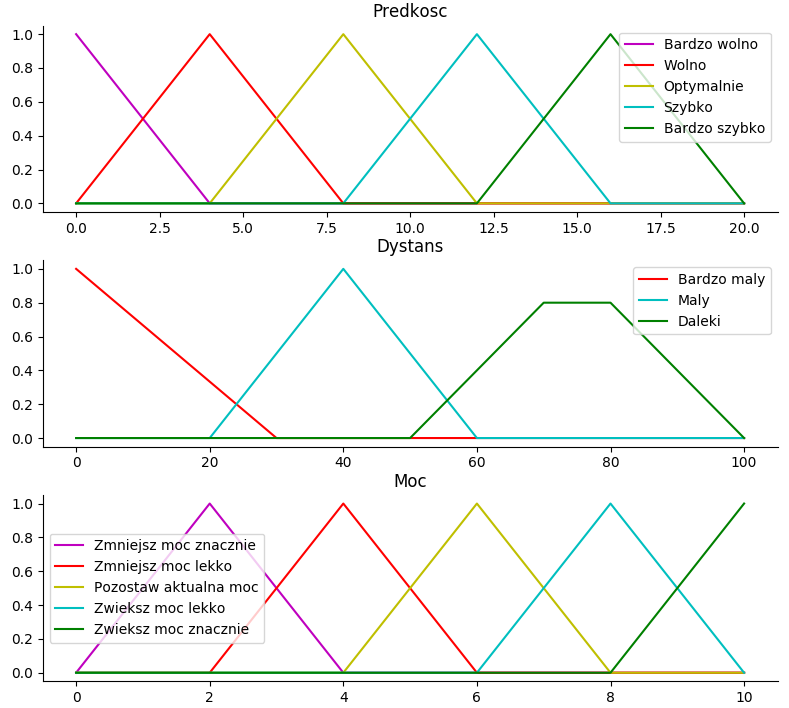
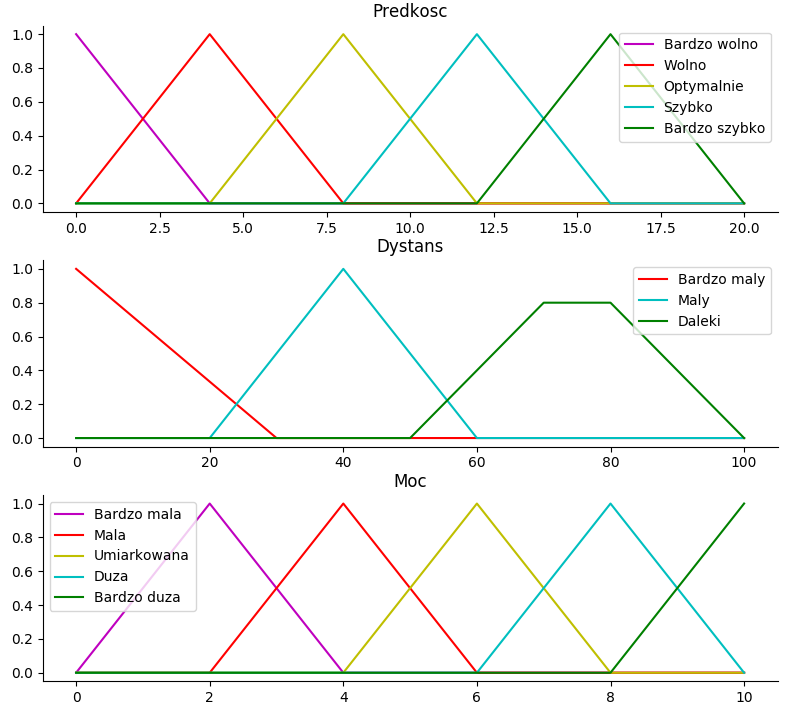
Change plot labels

diff --git a/universes.py b/universes.py
@@ -45,11 +45,11 @@ ax1.plot(x_distance, dist_dt, 'g', linewidth=1.5, label='Daleki')
 ax1.set_title('Dystans')
 ax1.legend()
 
-ax2.plot(x_power, power_vlo, 'm', linewidth=1.5, label='Zmniejsz moc znacznie')
-ax2.plot(x_power, power_lo , 'r', linewidth=1.5, label='Zmniejsz moc lekko')
-ax2.plot(x_power, power_op , 'y', linewidth=1.5, label='Pozostaw aktualna moc')
-ax2.plot(x_power, power_hi , 'c', linewidth=1.5, label='Zwieksz moc lekko')
-ax2.plot(x_power, power_vhi, 'g', linewidth=1.5, label='Zwieksz moc znacznie')
+ax2.plot(x_power, power_vlo, 'm', linewidth=1.5, label='Bardzo mala')
+ax2.plot(x_power, power_lo , 'r', linewidth=1.5, label='Mala')
+ax2.plot(x_power, power_op , 'y', linewidth=1.5, label='Umiarkowana')
+ax2.plot(x_power, power_hi , 'c', linewidth=1.5, label='Duza')
+ax2.plot(x_power, power_vhi, 'g', linewidth=1.5, label='Bardzo duza')
 ax2.set_title('Moc')
 ax2.legend()
 
